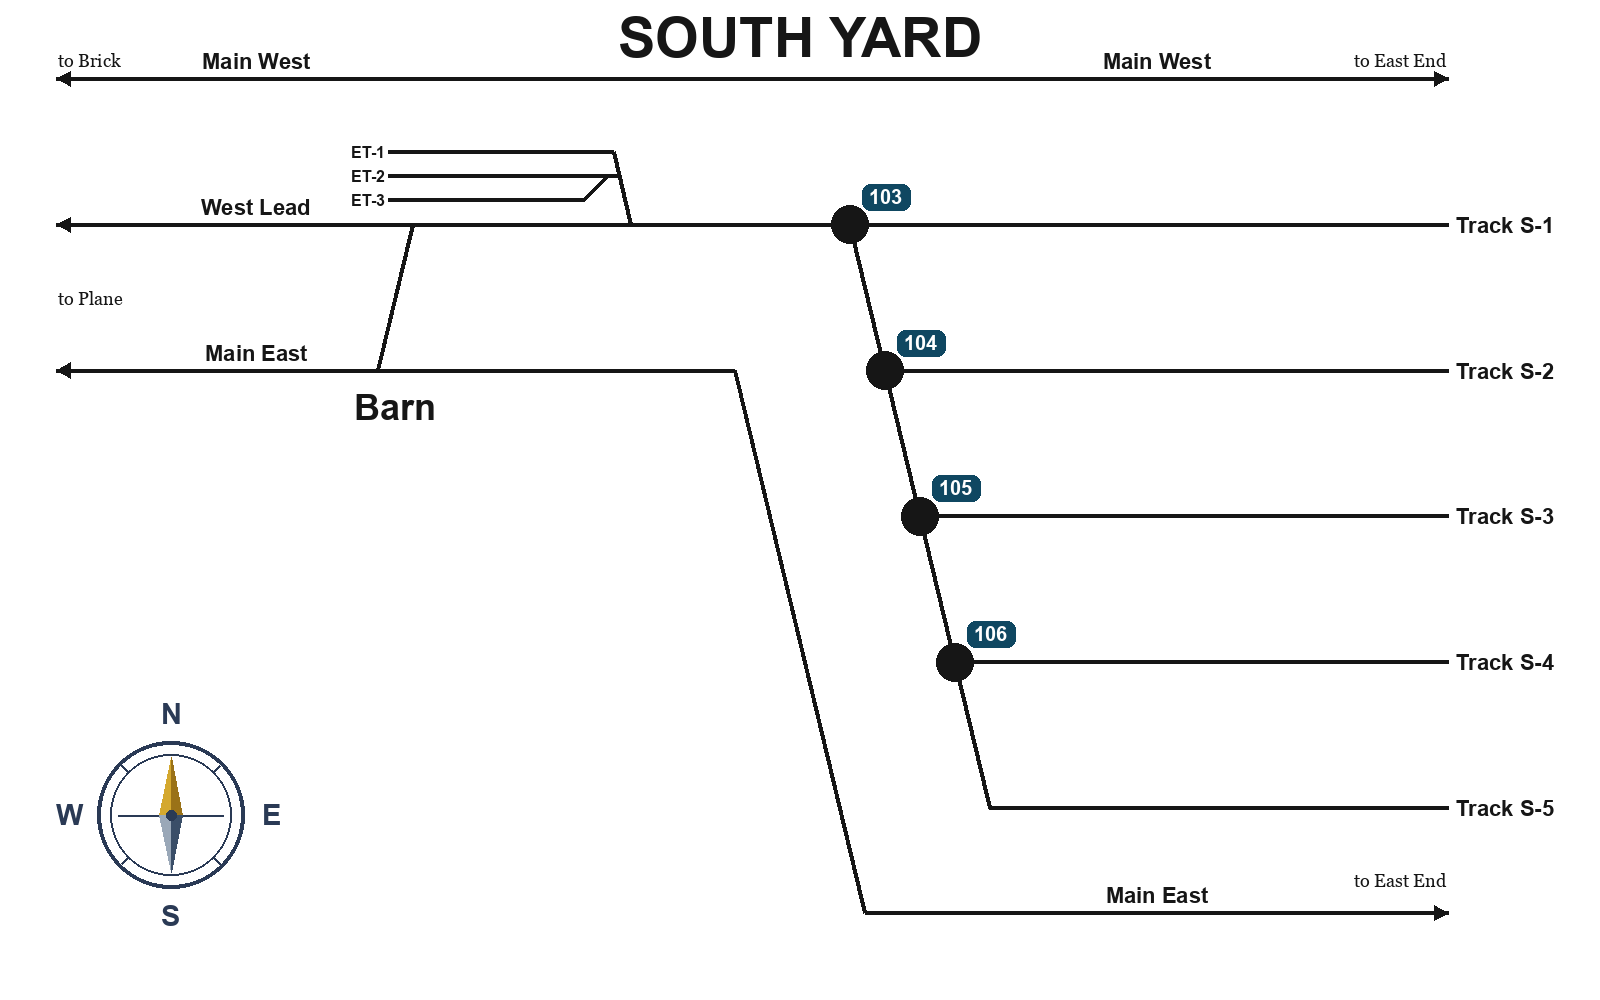
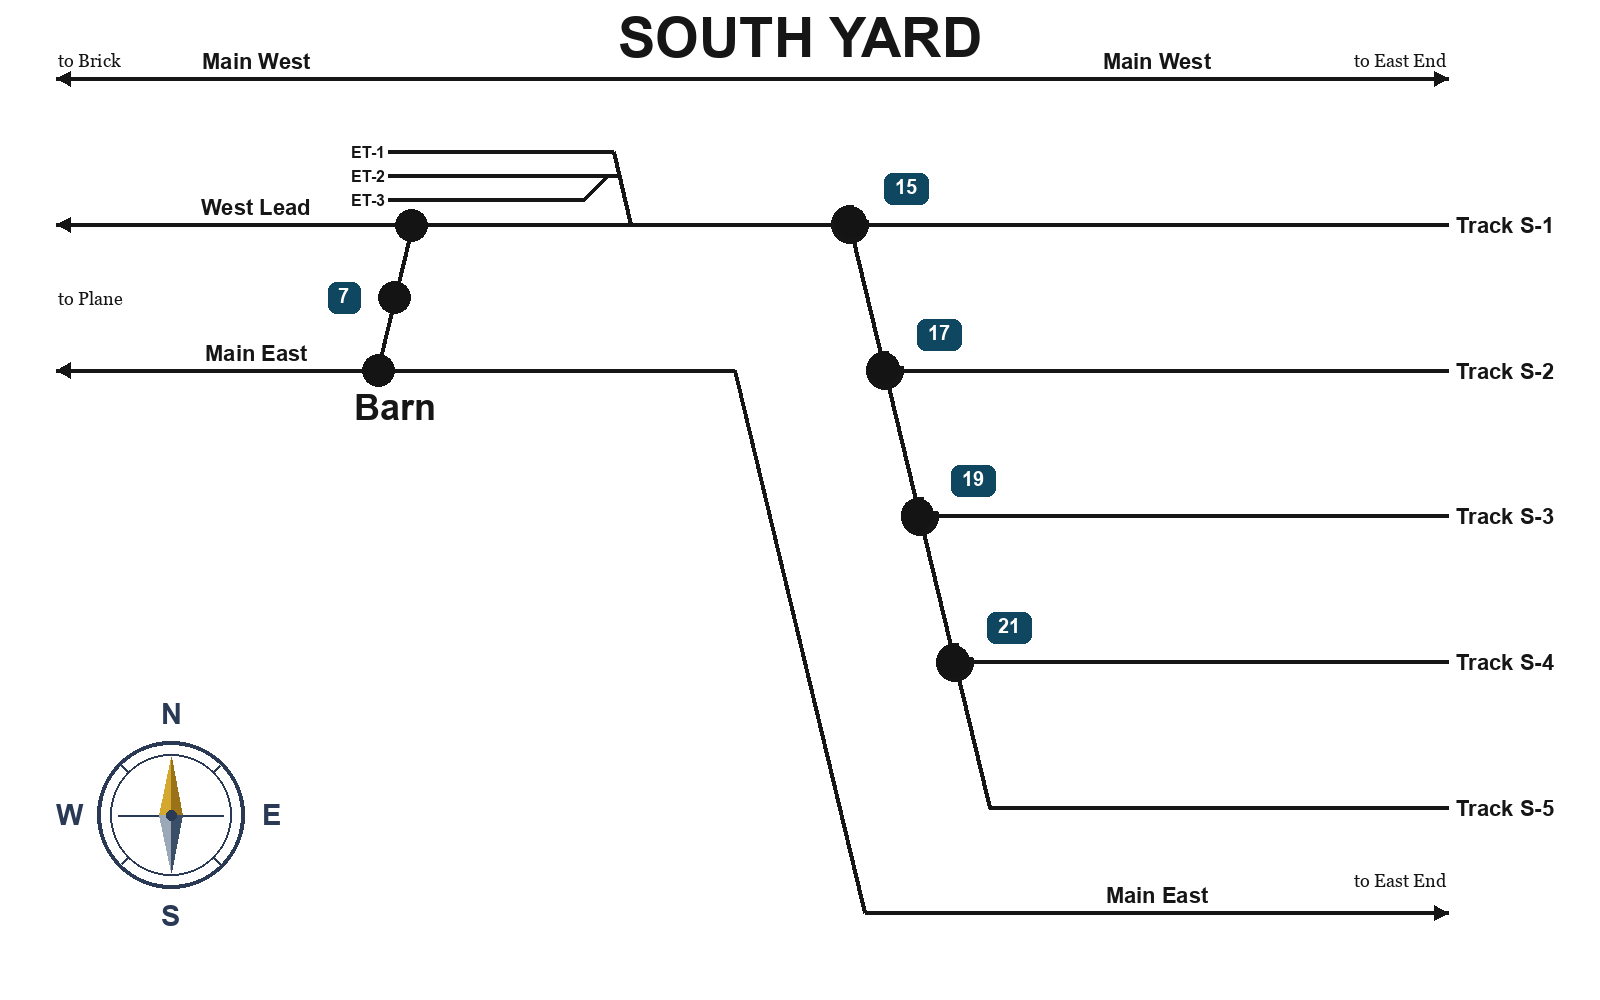
Stamp South Yard with Switch 15/17/19/21 and the Switch 7 Barn xover.
Replace Digicon 103–106 pills with the live turnout userNames and add the three-dot crossover at Barn.

diff --git a/cats/scripts/render_south_yard_station_map.py b/cats/scripts/render_south_yard_station_map.py
@@ -1,0 +1,160 @@
+#!/usr/bin/env python3
+"""South Yard station map — Switch 7 / 15 / 17 / 19 / 21.
+
+Starts from the published SM-03 sheet and restamps the frogs with the
+live switch userNames (not Digicon CP / DCC 103–106). Adds the Switch 7
+three-dot crossover at Barn, same language as East End 111.
+
+    python3 cats/scripts/render_south_yard_station_map.py
+"""
+
+from __future__ import annotations
+
+import shutil
+import zipfile
+from io import BytesIO
+from pathlib import Path
+
+from PIL import Image, ImageDraw, ImageFont
+
+ROOT = Path(__file__).resolve().parents[2]
+SRC = ROOT / "cats/docs/station_maps/src/south_yard_sheet.png"
+OUT_CATS = ROOT / "cats/docs/station_maps/Neville_Island_Station_Map_South_Yard_0.png"
+OUT_PORTAL = ROOT / "consolidation/ops-portal/assets/maps/station_map_south_yard.png"
+HOPS = ROOT / "consolidation/external/hart-ops"
+DOCX_NAME = "Neville_Island_Station_Map_South_Yard.docx"
+DOCX_TEMPLATE = HOPS / "docs/Neville_Island_Station_Map_South_Yard.docx"
+
+TRACK = (20, 20, 20)
+BADGE = (15, 71, 97)
+BADGE_INK = (255, 255, 255)
+DOT_R = 16
+BADGE_GAP = 18
+
+# Ladder frogs on the published sheet (was CP 103–106 → Switch 15/17/19/21).
+SW15 = (850, 222)
+SW17 = (883, 368)
+SW19 = (917, 514)
+SW21 = (953, 661)
+
+# Switch 7 LH_XOVER: West Lead down-left onto Main East at Barn.
+SW7_TOP = (411, 225)
+SW7_BOT = (378, 370)
+SW7_MID = ((SW7_TOP[0] + SW7_BOT[0]) / 2, (SW7_TOP[1] + SW7_BOT[1]) / 2)
+
+OLD_BADGES = (
+    (862, 184, 49, 27),
+    (897, 330, 49, 27),
+    (932, 475, 49, 27),
+    (967, 621, 49, 27),
+)
+
+
+def _font(size: int, bold: bool = False):
+    names = ["Arial Bold.ttf"] if bold else ["Arial.ttf"]
+    if bold:
+        names.append("Arial.ttf")
+    bases = [
+        Path("/System/Library/Fonts/Supplemental"),
+        Path("/Library/Fonts"),
+        Path("/usr/share/fonts/truetype/macos"),
+    ]
+    for name in names:
+        for base in bases:
+            p = base / name
+            if p.is_file():
+                return ImageFont.truetype(str(p), size)
+    return ImageFont.load_default()
+
+
+def _dot(d, pt, r=DOT_R):
+    x, y = pt
+    d.ellipse([x - r, y - r, x + r, y + r], fill=TRACK)
+
+
+def _badge_near(d, pt, text, font, corner: str = "ne"):
+    box = d.textbbox((0, 0), text, font=font)
+    tw, th = box[2] - box[0], box[3] - box[1]
+    w = tw + 22
+    h = th + 16
+    cx, cy = pt
+    gap = BADGE_GAP
+    if corner == "ne":
+        x = cx + DOT_R + gap
+        y = cy - DOT_R - h - 2
+    elif corner == "nw":
+        x = cx - DOT_R - w - gap
+        y = cy - DOT_R - h - 2
+    elif corner == "w":
+        x = cx - DOT_R - w - gap
+        y = cy - h / 2
+    else:
+        raise ValueError(corner)
+    d.rounded_rectangle([x, y, x + w, y + h], radius=8, fill=BADGE)
+    d.text((x + w / 2, y + h / 2 - 1), text, font=font, fill=BADGE_INK, anchor="mm")
+
+
+def _cover(d, box, pad=6):
+    x, y, w, h = box
+    d.rectangle([x - pad, y - pad, x + w + pad, y + h + pad], fill=(255, 255, 255))
+
+
+def render(out: Path) -> None:
+    if not SRC.is_file():
+        raise SystemExit(f"missing source sheet {SRC}")
+    img = Image.open(SRC).convert("RGB")
+    d = ImageDraw.Draw(img)
+    f_num = _font(20, bold=True)
+
+    for box in OLD_BADGES:
+        _cover(d, box, pad=8)
+
+    for pt in (SW7_TOP, SW7_MID, SW7_BOT, SW15, SW17, SW19, SW21):
+        _dot(d, pt)
+
+    _badge_near(d, SW7_MID, "7", f_num, "w")
+    _badge_near(d, SW15, "15", f_num, "ne")
+    _badge_near(d, SW17, "17", f_num, "ne")
+    _badge_near(d, SW19, "19", f_num, "ne")
+    _badge_near(d, SW21, "21", f_num, "ne")
+
+    out.parent.mkdir(parents=True, exist_ok=True)
+    img.save(out, "PNG")
+    print(f"wrote {out} ({img.size[0]}x{img.size[1]})")
+
+
+def _write_docx(png: Path, dest: Path) -> None:
+    if not DOCX_TEMPLATE.is_file():
+        raise SystemExit(f"missing template {DOCX_TEMPLATE}")
+    dest.parent.mkdir(parents=True, exist_ok=True)
+    png_bytes = png.read_bytes()
+    buf = BytesIO()
+    with zipfile.ZipFile(DOCX_TEMPLATE, "r") as src, zipfile.ZipFile(
+        buf, "w", compression=zipfile.ZIP_DEFLATED
+    ) as outz:
+        for item in src.infolist():
+            data = src.read(item.filename)
+            if item.filename == "word/media/image1.png":
+                data = png_bytes
+            elif item.filename == "word/document.xml":
+                data = data.replace(
+                    b"station_map_south_yard.png",
+                    b"station_map_south_yard.png",
+                )
+            outz.writestr(item, data)
+    dest.write_bytes(buf.getvalue())
+    print(f"wrote {dest}")
+
+
+def main() -> None:
+    render(OUT_CATS)
+    OUT_PORTAL.parent.mkdir(parents=True, exist_ok=True)
+    shutil.copy2(OUT_CATS, OUT_PORTAL)
+    print(f"copied {OUT_PORTAL}")
+    if HOPS.is_dir() and DOCX_TEMPLATE.is_file():
+        _write_docx(OUT_CATS, HOPS / "docs" / DOCX_NAME)
+        _write_docx(OUT_CATS, HOPS / "docs/published" / DOCX_NAME)
+
+
+if __name__ == "__main__":
+    main()

diff --git a/cats/docs/STATION_MAP_CTC.md b/cats/docs/STATION_MAP_CTC.md
@@ -6,7 +6,7 @@ Source maps (Car Cards docs → extracted under `cats/docs/station_maps/`):
 |-----|----------------|
 | West Yard | CP Brick 100 / 101, Plane 102, OS Barn 117, West Lead |
 | **Barn** | Local sheet for **Switch 7 / 9 / 11 / 13** (LE: TO117 xover, TO10, TO11, TO1). Rebuild: `python3 cats/scripts/render_barn_station_map.py`. SM-06 docx in hart-ops. South Yard still shows Barn in context. |
-| South Yard | West Lead → ET + ladder 103–106 → OS S-R…OS S-4 (Fall River A/D style) |
+| South Yard | West Lead → ET + ladder **15 / 17 / 19 / 21** → OS S-R…OS S-4; **Switch 7** Barn xover. Rebuild: `python3 cats/scripts/render_south_yard_station_map.py`. |
 | East End | Ladder 107–110, 111 x-over, 112, mains → Princess |
 | Shenango (+ rotated) | Princess 113–115, OS K-1/OS K-2, Rocks / OS McKeesport |
 
@@ -14,7 +14,7 @@ Visual SoR for yard body: CATS sample [cats.jpg](https://cats4ctc.wdfiles.com/lo
 
 **Labels (station-map language):**
 - On-track `STATION` shows map names (`OS W-1`, `West Lead`, `OS S-R`…`OS S-4`, `OS K-1`/`OS K-2`, CP `100`…`115`) while `NAME` stays the JMRI occupancy id.
-- Header/footer `SEC_NAME` callouts spell connections: e.g. `103→OS S-R`, `West Lead: Plane → OS Barn → 103 → OS S-R`, `112 → OS East Lead → Princess`.
+- Header/footer `SEC_NAME` callouts spell connections: e.g. `15→OS S-R`, `West Lead: Plane → OS Barn → 15 → OS S-R`, `112 → OS East Lead → Princess`.
 
 Block / turnout names: `cats/data/occupancy_bindings.csv`, `turnout_bindings.csv`.
 

diff --git a/wiki/STATUS.md b/wiki/STATUS.md
@@ -1,5 +1,7 @@
 # Live status — HART Digicon
 
+Updated: 2026-09-09 — South Yard station map uses switch userNames **15 / 17 / 19 / 21** (not Digicon 103–106) and the **Switch 7** three-dot Barn xover. Rebuild `python3 cats/scripts/render_south_yard_station_map.py`. Docs/static — not deployed.
+
 Updated: 2026-09-09 — Barn station map (SM-06): Switch **7 / 9 / 11 / 13** from Layout Editor topography, East End **111**-style three-dot xover, one slope for every diverge. `cats/docs/station_maps/Neville_Island_Station_Map_Barn_0.png` · hart-ops `Neville_Island_Station_Map_Barn.docx`. Rebuild `python3 cats/scripts/render_barn_station_map.py`. Docs/static — not deployed.
 
 Updated: 2026-09-08 — Operator portal is on GitHub Pages: https://lnevo.github.io/hart/ (static crew site from `consolidation/ops-portal/`; F-root review and Desktop/HART gallery files stay local). Docs/static — not deployed to layout hosts.
